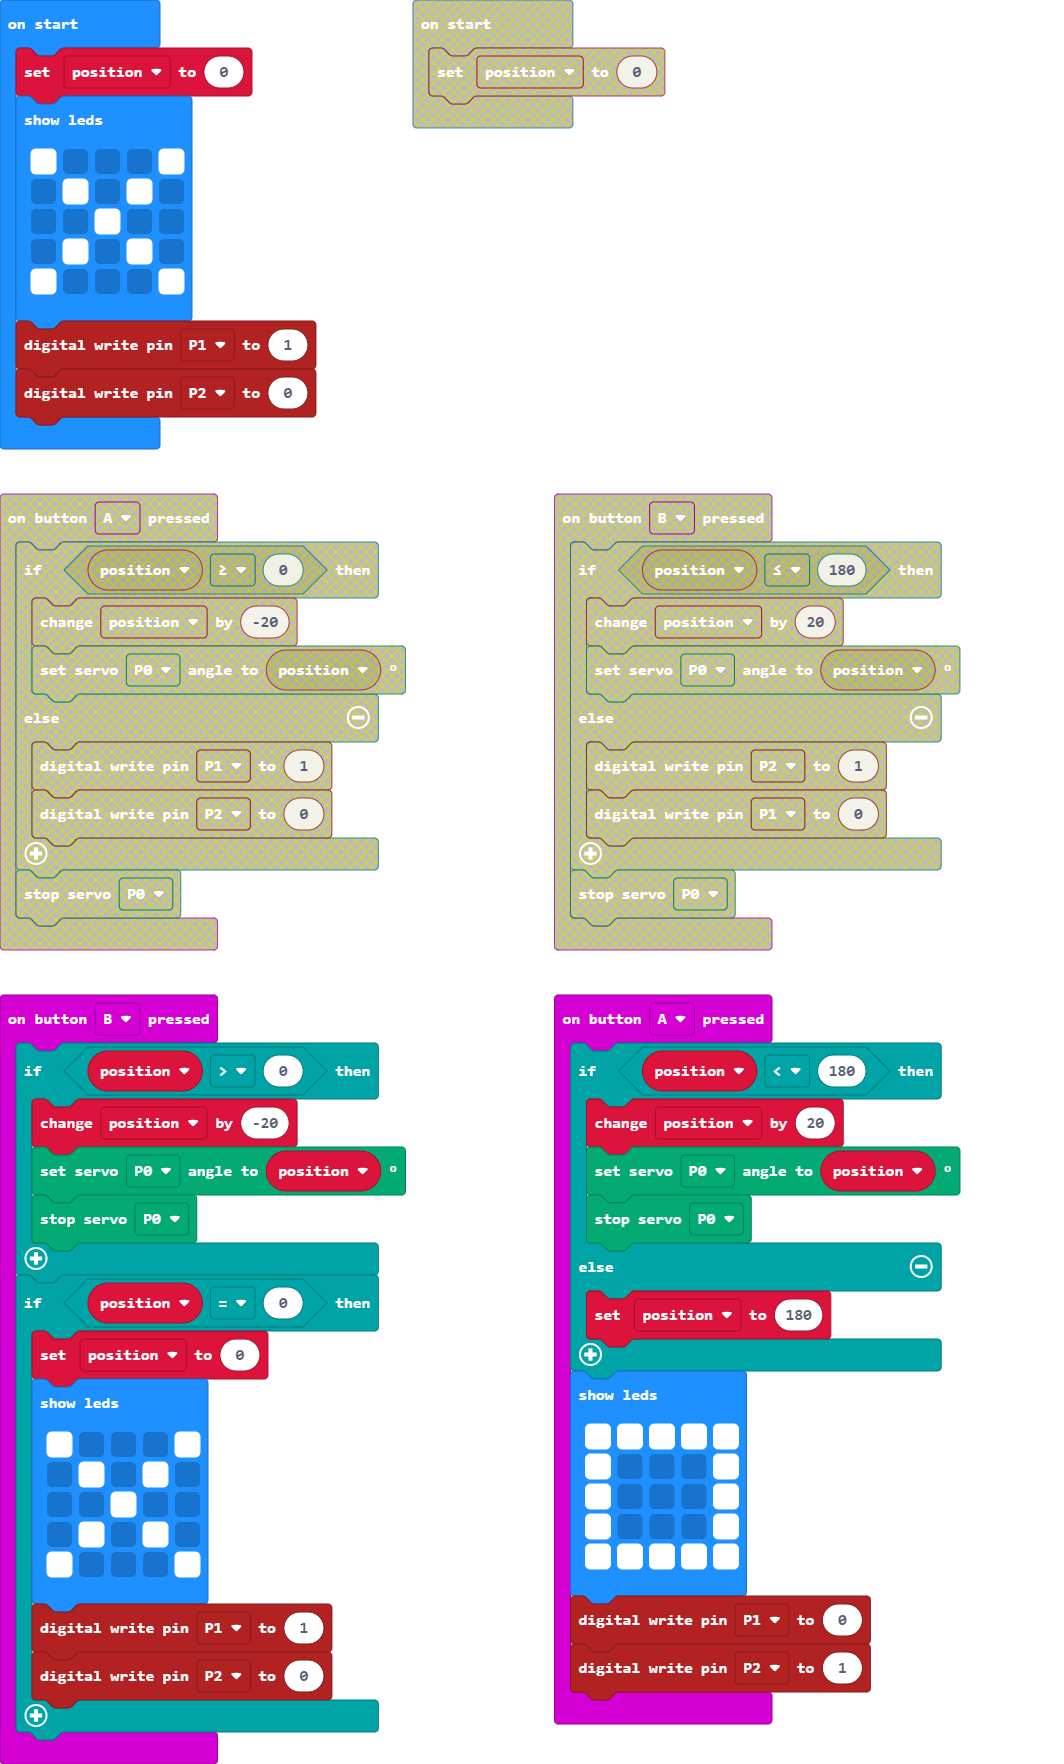
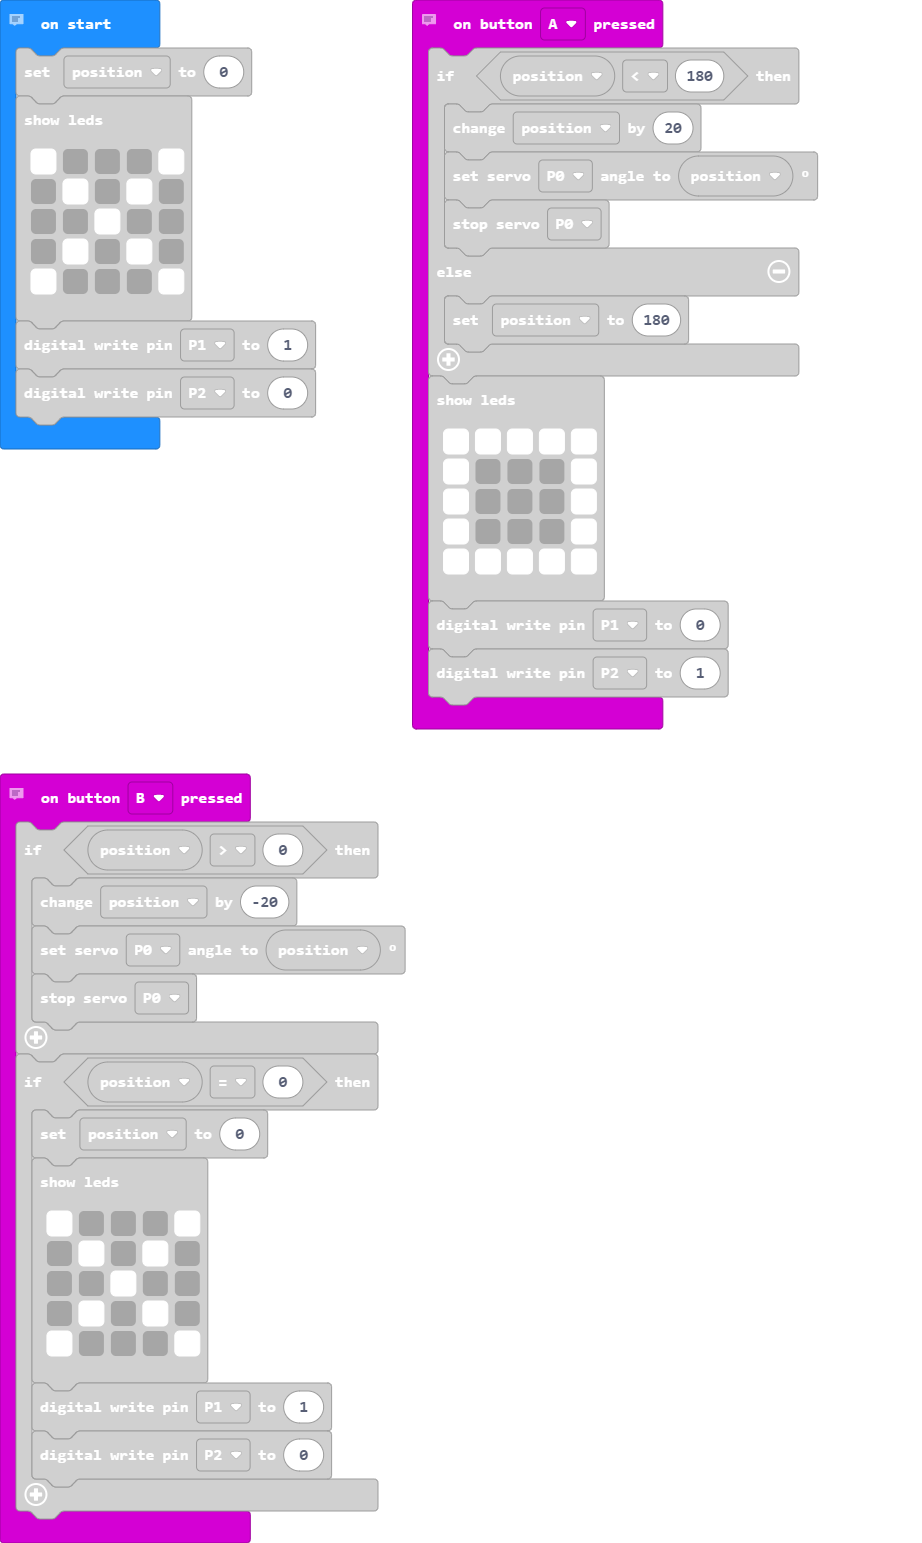
Update main.blocks, main.ts

diff --git a/main.ts b/main.ts
@@ -1,3 +1,4 @@
+// A button to OPEN actions
 input.onButtonPressed(Button.A, function () {
     if (position < 180) {
         position += 20
@@ -16,6 +17,7 @@ input.onButtonPressed(Button.A, function () {
     pins.digitalWritePin(DigitalPin.P1, 0)
     pins.digitalWritePin(DigitalPin.P2, 1)
 })
+// B button to CLOSE actions
 input.onButtonPressed(Button.B, function () {
     if (position > 0) {
         position += -20
@@ -35,6 +37,7 @@ input.onButtonPressed(Button.B, function () {
         pins.digitalWritePin(DigitalPin.P2, 0)
     }
 })
+// set variables to start
 let position = 0
 position = 0
 basic.showLeds(`
